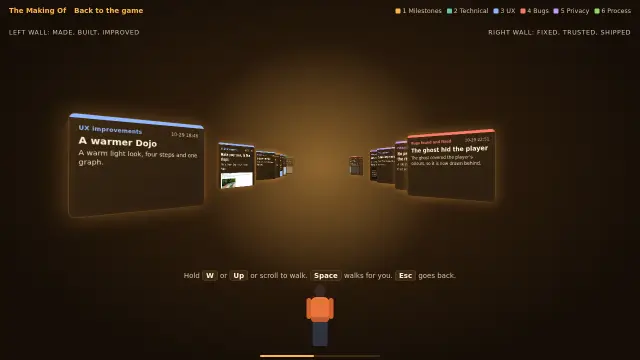
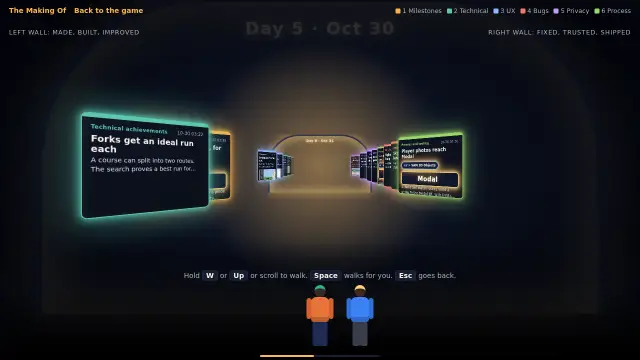
Grand Entrance: real screen pictures, final screenshots, no provider name in the test - Part of CC-133
Claude-Session: https://claude.ai/code/session_011JteUH526KiCBBLbHey9D6

diff --git a/tests/making-of.test.ts b/tests/making-of.test.ts
@@ -142,7 +142,7 @@ describe('The Making Of public files', () => {
     expect(ev.filter((e) => e.model).length).toBeGreaterThanOrEqual(10);
     expect(ev.some((e) => e.plate === 'Modal') && ev.some((e) => e.plate === 'Baseten')).toBe(true);
     expect(ev.filter((e) => /simulator/i.test(e.title + e.text)).length).toBeGreaterThanOrEqual(5);
-    for (const f of ['timeline.html', 'timeline-events.json']) expect(read(f), f).not.toMatch(/vultr|digitalocean|linode/i);
+    for (const f of ['timeline.html', 'timeline-events.json']) expect(read(f), f).not.toMatch(new RegExp(['vul', 'tr'].join('') + '|digitalocean|linode', 'i'));
     for (const f of ['timeline.html', 'timeline-events.json']) {
       const t = read(f);
       for (const [name, re] of DENY) expect(t.match(re), `${f}: ${name}`).toBeNull();

diff --git a/docs/ASSETS.md b/docs/ASSETS.md
@@ -56,7 +56,7 @@
 | `public/assets/thumbs/parts.webp` | the Parts card picture in the World picker (640x360, under 80 KB) | 2026-11-01 | Our own screenshot of our own page `?mode=parts` | None | Ours; no third-party material |
 | `public/assets/thumbs/making-site-map.webp`, `making-course-map.webp` (8 and 20 KB) | the Site map and Course map card pictures in The Making Of (640x360) | 2026-11-03 | Our own screenshots of our own pages `public/making-of/site-map.html` and `course-map.html` at 1280 px, made by `scripts/make-making-thumbs.mjs` | None | Ours; no third-party material |
 | `public/making-of/code-map.html` (1.9 MB) and `public/assets/thumbs/making-code-map.webp` (13 KB) | the Code map page in The Making Of and its card picture | 2026-11-04 | Graphify 0.9.99 output of our own code plus `tools/community-explorer.py`; the picture is our screenshot of it; the page loads vis-network 9.1.6 (MIT) from unpkg at view time | None | Ours (page); vis-network MIT. Larger than 300 KB on purpose: it is the shipped code map and the same file as `docs/codegraph/graph.html` |
-| `public/making-of/timeline.html`, `public/making-of/timeline-events.json`, the 21 card pictures in `public/making-of/timeline/` (JPEG and PNG, each under 250 KB, copies of our own evidence screenshots, lab pictures and the code map snapshot in `docs/evidence/`), `public/assets/thumbs/making-timeline.webp` (9 KB) | the Timeline tunnel page in The Making Of, its card texts, two card pictures and the picker card picture | 2026-11-05 | Our own page and texts, written from our commit history; the two pictures are 640x360 JPEG copies of our own screenshots (`docs/evidence/cc-133-fork-pits/`, `docs/evidence/cc-247-flow-2-mark.jpg`); the stage uses the existing Training course picture `public/assets/thumbs/training.webp` and the card pictures reuse existing thumbs; the walker in the tunnel is drawn in CSS in Pip's colours (orange top, navy trousers, teal headband); the music is the existing `public/assets/music/course.ogg`, no new music; the picker picture, also shown as the thumbnail of the fifth tour card, The Grand Entrance, is our screenshot made by `scripts/timeline-shots.mjs` | None | Ours; the Mark-step photo is a licensed photo already listed for the Community flow evidence. No front-camera Training picture exists yet, the stage uses the side view |
+| `public/making-of/timeline.html`, `public/making-of/timeline-events.json`, the 23 card pictures in `public/making-of/timeline/` (JPEG and PNG, each under 250 KB, our own 1280 px screen shots (`screen-*.jpg`) and copies of our evidence pictures, lab pictures and the code map snapshot in `docs/evidence/`), `public/assets/thumbs/making-timeline.webp` (9 KB) | the Timeline tunnel page in The Making Of, its card texts, two card pictures and the picker card picture | 2026-11-05 | Our own page and texts, written from our commit history; the two pictures are 640x360 JPEG copies of our own screenshots (`docs/evidence/cc-133-fork-pits/`, `docs/evidence/cc-247-flow-2-mark.jpg`); the stage uses the existing Training course picture `public/assets/thumbs/training.webp` and the card pictures reuse existing thumbs; the walker in the tunnel is drawn in CSS in Pip's colours (orange top, navy trousers, teal headband); the music is the existing `public/assets/music/course.ogg`, no new music; the picker picture, also shown as the thumbnail of the fifth tour card, The Grand Entrance, is our screenshot made by `scripts/timeline-shots.mjs` | None | Ours; the Mark-step photo is a licensed photo already listed for the Community flow evidence. No front-camera Training picture exists yet, the stage uses the side view |
 | `docs/evidence/parts-gallery/*.png` | Parts gallery evidence at 1280 px | 2026-11-01 | Our own screenshots from `scripts/parts-gallery-smoke.mjs` | None | Ours; no third-party material |
 | `public/assets/thumbs/lab-timing.webp` | the Statistics of timing card picture in the Courses gallery (640x360) | 2026-11-01 | Cropped from our own screenshot `docs/evidence/lab-timing-park-run-1280.png` | None | Ours; no third-party material |
 | `public/assets/thumbs/lab-search.webp` | the Search card picture in the Courses gallery (640x360) | 2026-11-01 | Our own screenshot of our own page `?mode=lab-search&labs=1` at 1280 px, made by `scripts/make-thumbs.ts` | None | Ours; no third-party material |
